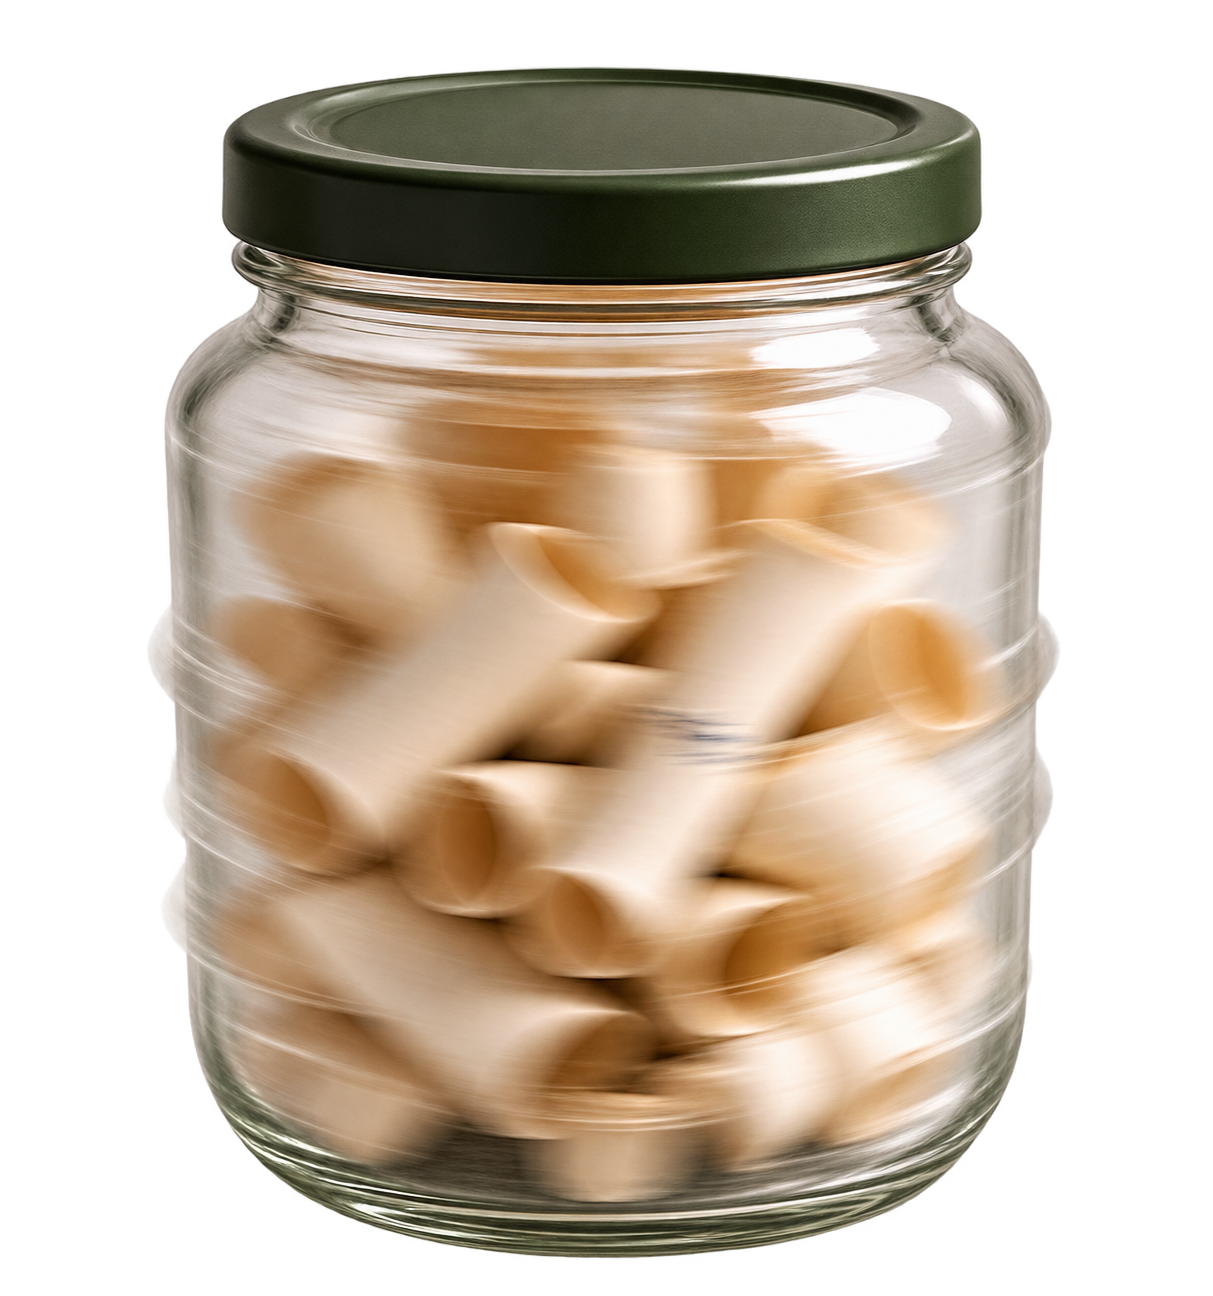
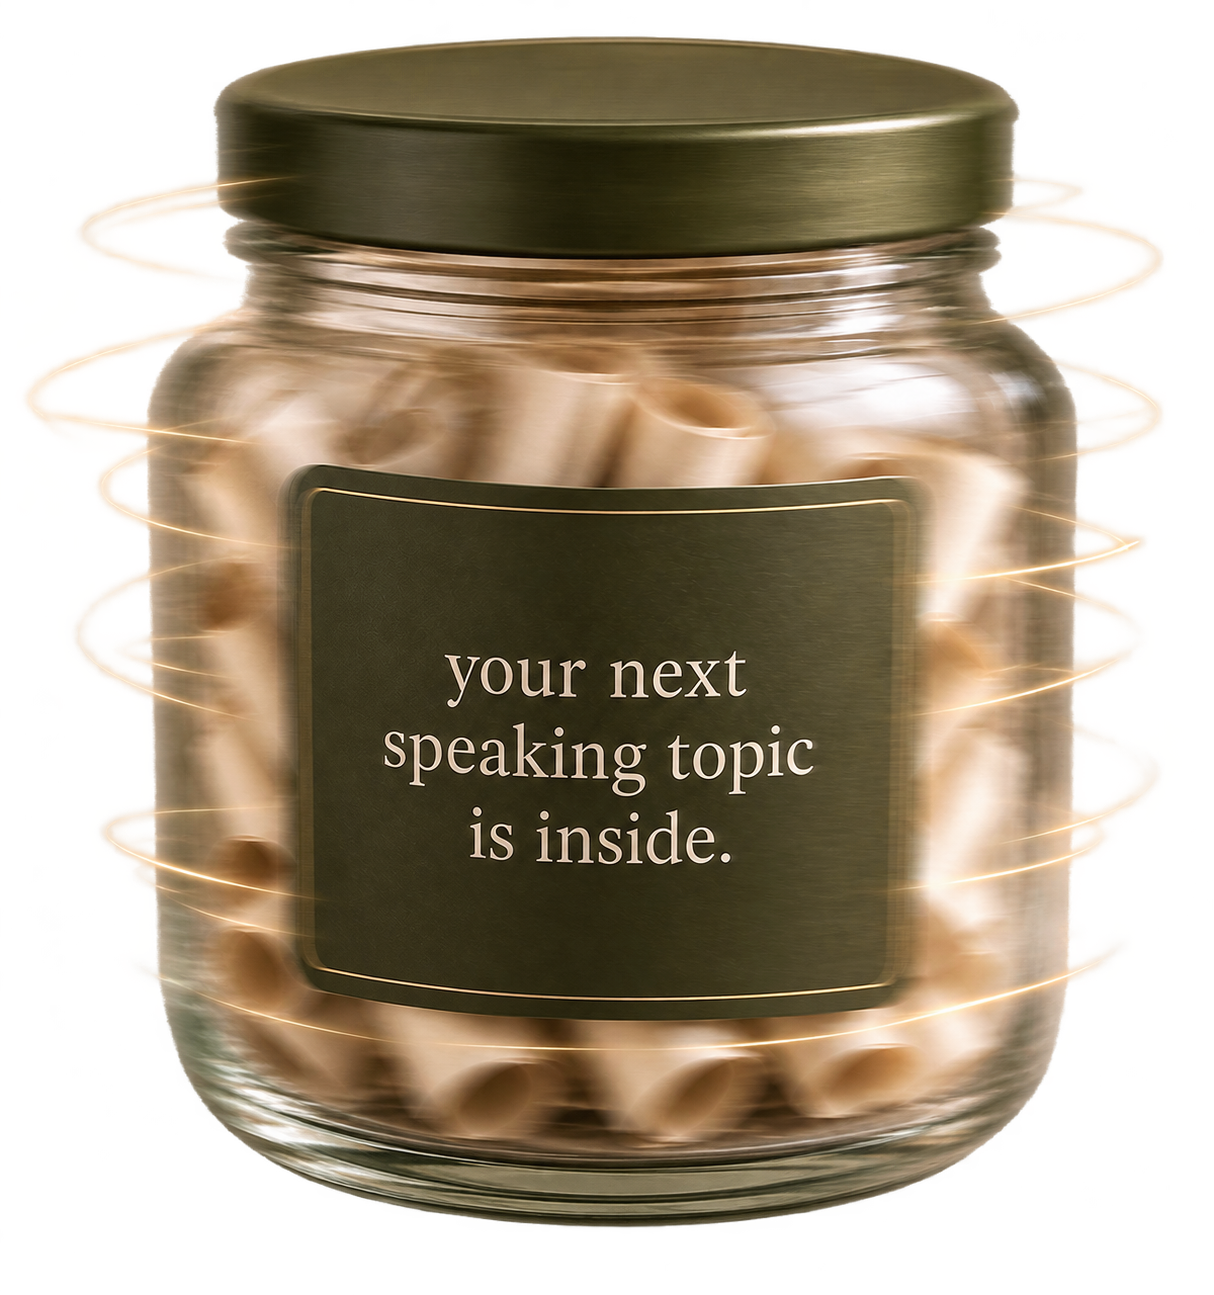
new commit

diff --git a/src/styles/globals.css b/src/styles/globals.css
@@ -964,7 +964,7 @@ a {
   font-weight: 800;
   letter-spacing: 0.12em;
   color: var(--olive-bright);
-  margin-bottom: 16px;
+  margin-bottom: 12px;
 }
 
 /* ---------- LEVEL TABS ---------- */
@@ -975,7 +975,7 @@ a {
   border-radius: var(--radius-lg);
   overflow: hidden;
   border: 1px solid var(--border);
-  margin-bottom: 30px;
+  margin-bottom: 20px;
 }
 
 .level-tab {
@@ -1028,7 +1028,7 @@ a {
 .jar-wrapper {
   width: 100%;
   max-width: 260px;
-  margin-bottom: 30px;
+  margin-bottom: 20px;
 }
 
 .jar-image {
@@ -1046,7 +1046,7 @@ a {
 
   width: 100%;
   max-width: 380px;
-  padding: 18px;
+  padding: 14px;
 
   background: var(--olive-primary);
   color: var(--text-primary);
@@ -1060,7 +1060,7 @@ a {
   transition:
     background 0.2s ease,
     transform 0.15s ease;
-  margin-bottom: 24px;
+  margin-bottom: 18px;
 }
 
 .spin-jar-btn:hover {
@@ -1105,7 +1105,7 @@ a {
   flex-direction: column;
   align-items: flex-start;
   text-align: left;
-  padding: 18px;
+  padding: 14px;
 
   background: var(--bg-card);
   border: 1px solid var(--border);
@@ -1122,28 +1122,36 @@ a {
 }
 
 .mode-card-icon {
-  width: 38px;
-  height: 38px;
+  width: 32px;
+  height: 32px;
   border-radius: var(--radius-md);
   background: var(--bg-secondary);
   color: var(--olive-bright);
   display: flex;
   align-items: center;
   justify-content: center;
-  margin-bottom: 12px;
+  margin-bottom: 0;
+}
+
+.mode-card-heading {
+  display: flex;
+  align-items: center;
+  gap: 9px;
+  width: 100%;
 }
 
 .mode-card-title {
   font-size: 14px;
   font-weight: 700;
   color: var(--text-primary);
-  margin-bottom: 6px;
+  margin-bottom: 0;
 }
 
 .mode-card-desc {
   font-size: 12px;
   line-height: 1.5;
   color: var(--text-secondary);
+  margin-top: 8px;
 }
 
 /* ---------- DESKTOP ---------- */
@@ -1162,7 +1170,7 @@ a {
   }
 
   .mode-card {
-    padding: 22px;
+    padding: 16px;
   }
 }
 .practice-page {
@@ -1377,6 +1385,55 @@ a {
 
   .mode-card {
     padding: 22px;
+  }
+}
+
+/* Compact mode choices */
+.practice-page .practice-eyebrow {
+  margin-bottom: 12px;
+}
+
+.practice-page .level-tabs {
+  margin-bottom: 20px;
+}
+
+.practice-page .jar-wrapper {
+  margin-bottom: 20px;
+}
+
+.practice-page .spin-jar-btn {
+  padding: 14px;
+  margin-bottom: 18px;
+}
+
+.practice-page .mode-card {
+  padding: 14px;
+}
+
+.practice-page .mode-card-heading {
+  display: flex;
+  align-items: center;
+  gap: 9px;
+  width: 100%;
+}
+
+.practice-page .mode-card-icon {
+  width: 32px;
+  height: 32px;
+  margin-bottom: 0;
+}
+
+.practice-page .mode-card-title {
+  margin-bottom: 0;
+}
+
+.practice-page .mode-card-desc {
+  margin-top: 8px;
+}
+
+@media (min-width: 760px) {
+  .practice-page .mode-card {
+    padding: 16px;
   }
 }
 

diff --git a/src/Pages/Practice.jsx b/src/Pages/Practice.jsx
@@ -218,31 +218,29 @@ export default function Practice() {
         Spin the Jar
       </button>
 
-      <div className="or-divider">
-        <span className="or-line" />
-        <span className="or-text">OR</span>
-        <span className="or-line" />
-      </div>
-
       <div className="mode-cards">
         <button
           className="mode-card"
           onClick={() => setShowCategoryModal(true)}
         >
-          <div className="mode-card-icon">
-            <LayoutGrid size={20} strokeWidth={1.8} />
+          <div className="mode-card-heading">
+            <div className="mode-card-icon">
+              <LayoutGrid size={18} strokeWidth={1.8} />
+            </div>
+            <h3 className="mode-card-title">Choose a category</h3>
           </div>
-          <h3 className="mode-card-title">Choose a category</h3>
           <p className="mode-card-desc">
             Pick a category and get a tailored topic.
           </p>
         </button>
 
         <button className="mode-card" onClick={handleYapMode}>
-          <div className="mode-card-icon">
-            <MessageCircle size={20} strokeWidth={1.8} />
+          <div className="mode-card-heading">
+            <div className="mode-card-icon">
+              <MessageCircle size={18} strokeWidth={1.8} />
+            </div>
+            <h3 className="mode-card-title">Yap Mode</h3>
           </div>
-          <h3 className="mode-card-title">Yap Mode</h3>
           <p className="mode-card-desc">No topic. Just you talking.</p>
         </button>
       </div>
